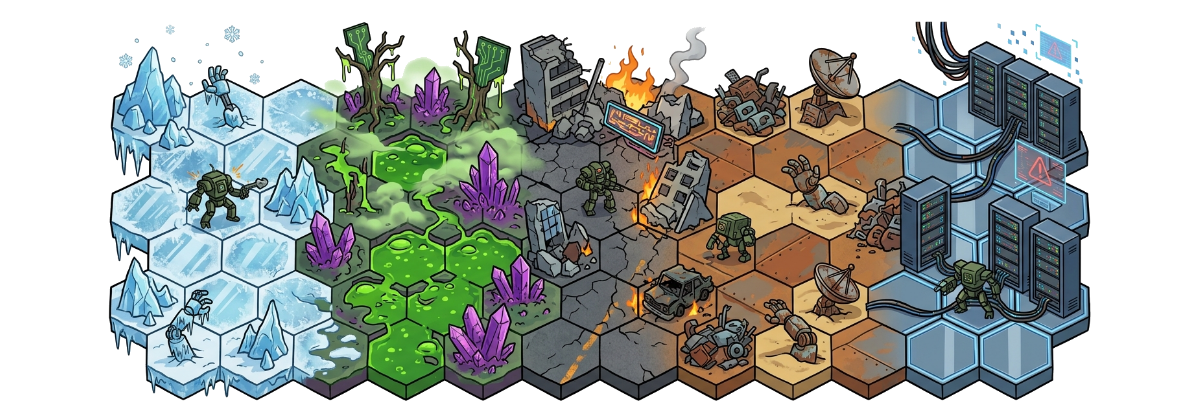
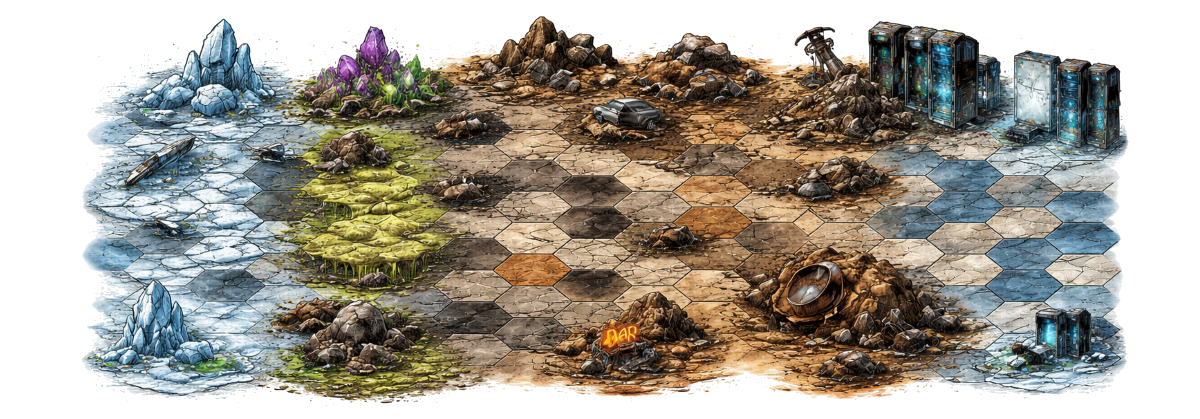
escenarios

diff --git a/src/app/features/docs/scenarios-print.ts b/src/app/features/docs/scenarios-print.ts
@@ -163,7 +163,8 @@ export class ScenariosPrint implements OnDestroy {
   specialHexTypes(s: ScenarioItem): HexTypeDefinition[] {
     const types = s.hexMap?.hexTypes;
     if (!types) return [];
-    return types.filter(t => t.id !== 'normal' && t.id !== 'obstacle');
+    const usedTypeIds = new Set(s.hexMap?.hexes?.map(h => h.typeId) ?? []);
+    return types.filter(t => t.id !== 'normal' && t.id !== 'obstacle' && usedTypeIds.has(t.id));
   }
 
   hexTypeCount(s: ScenarioItem, typeId: string): number {

diff --git a/src/app/features/docs/scenario-viewer.ts b/src/app/features/docs/scenario-viewer.ts
@@ -425,7 +425,8 @@ export class ScenarioViewer implements OnChanges {
   specialHexTypes(): HexTypeDefinition[] {
     const types = this.data()?.hexMap?.hexTypes;
     if (!types) return [];
-    return types.filter(t => t.id !== 'normal' && t.id !== 'obstacle');
+    const usedTypeIds = new Set(this.data()?.hexMap?.hexes?.map(h => h.typeId) ?? []);
+    return types.filter(t => t.id !== 'normal' && t.id !== 'obstacle' && usedTypeIds.has(t.id));
   }
 
   miniHexPoints(): string {
